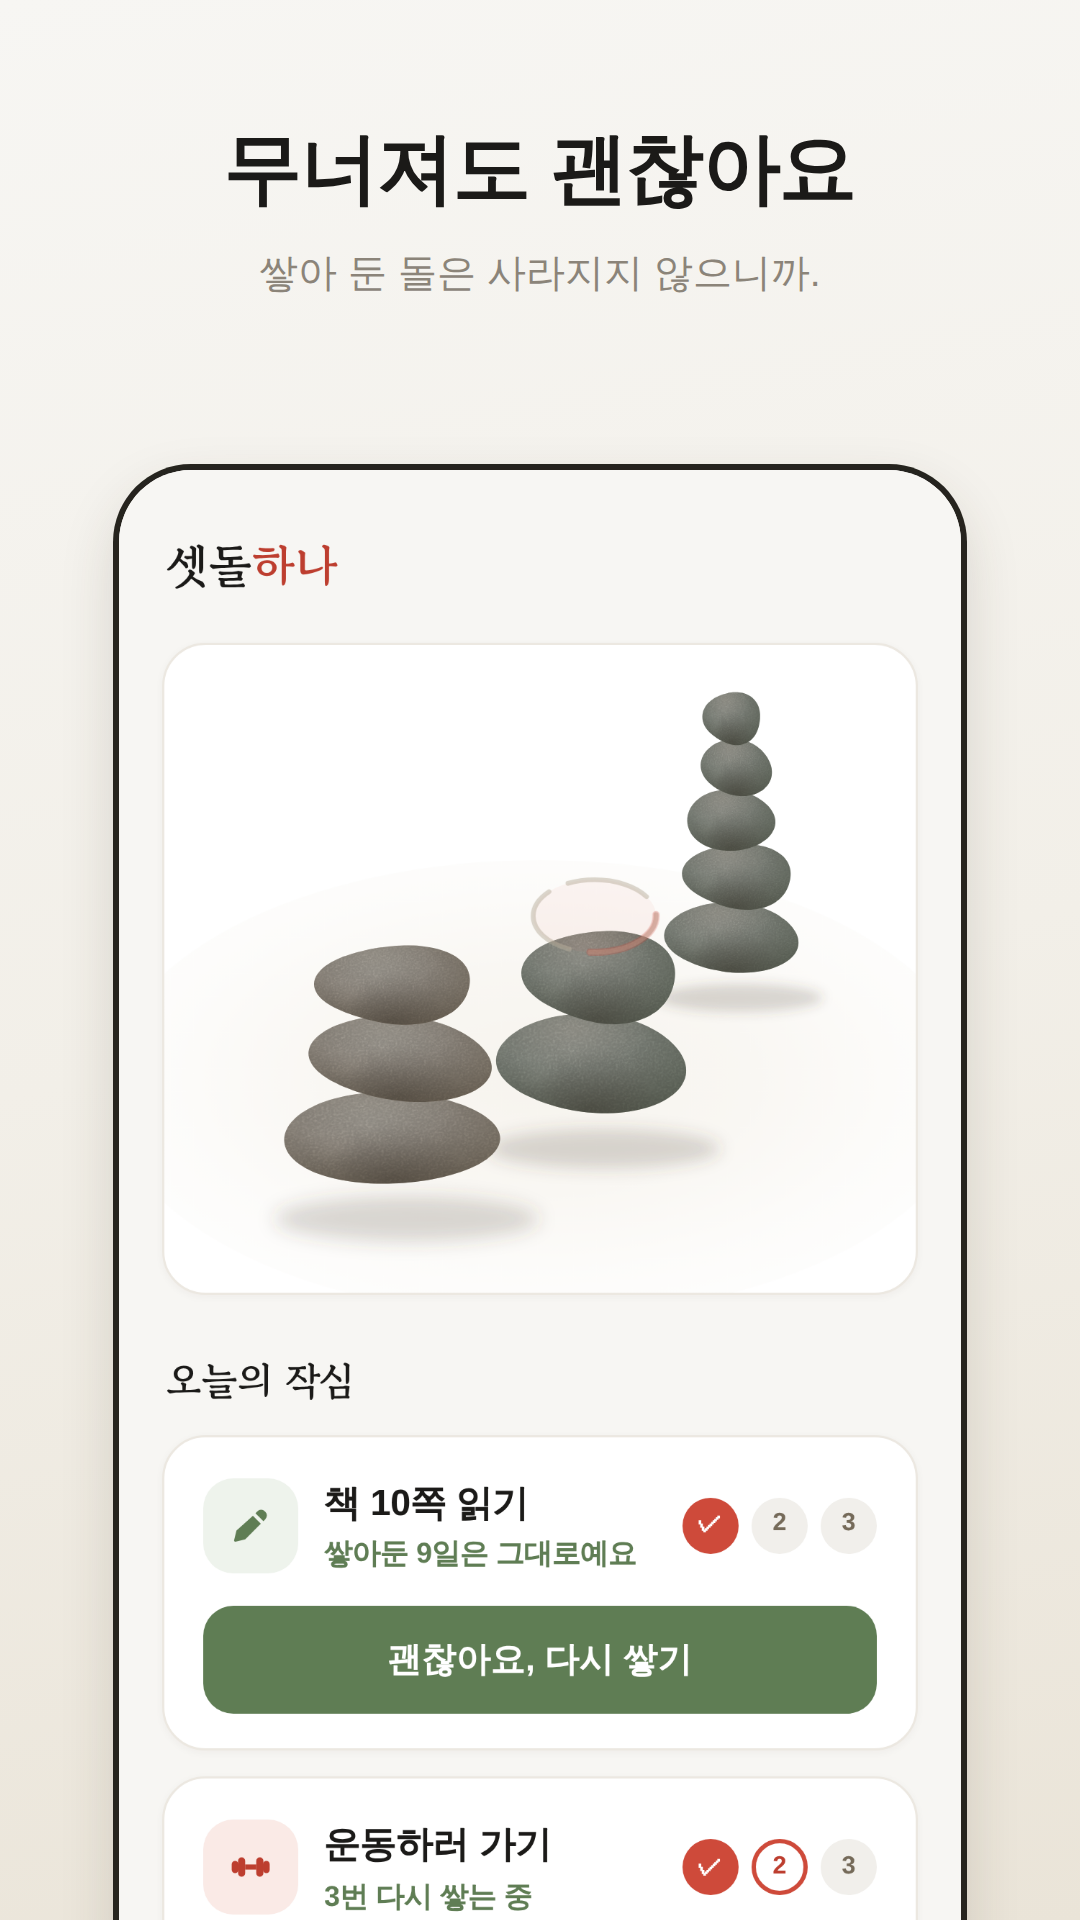
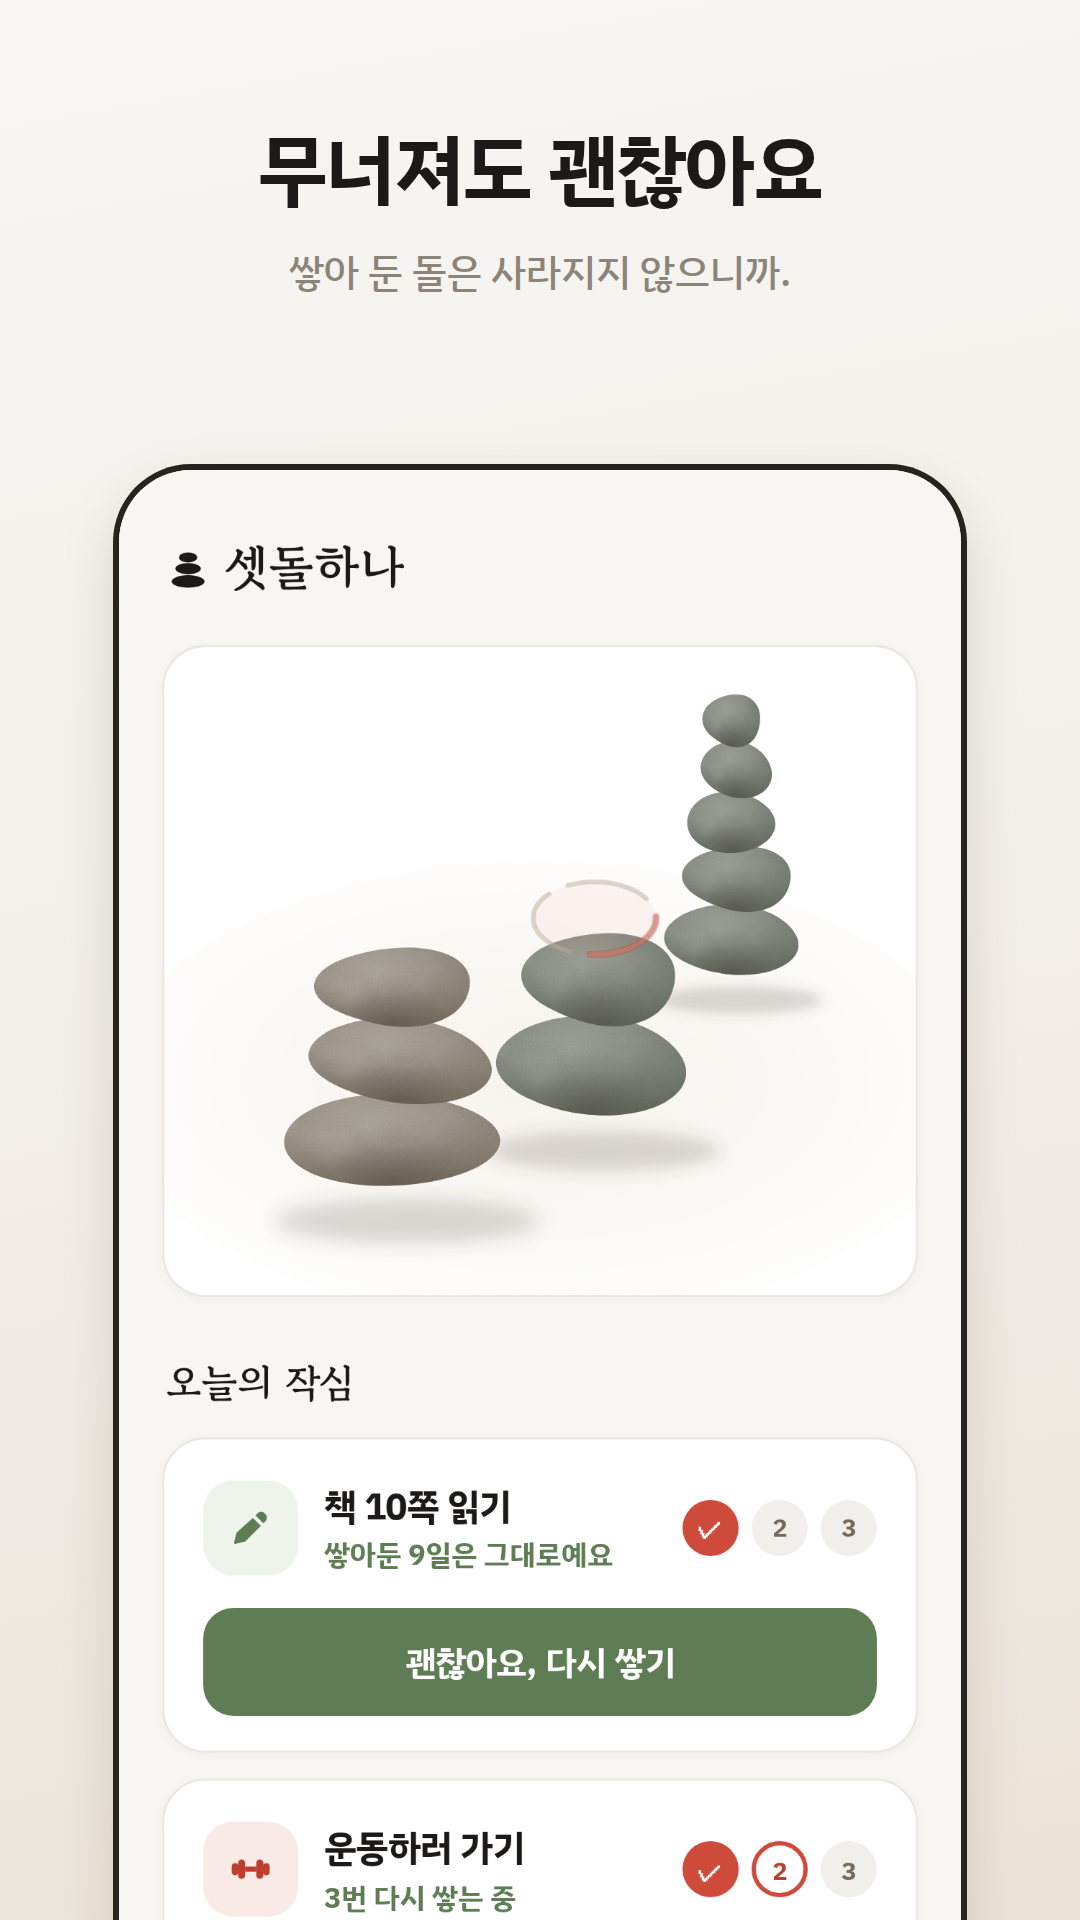
스토어 스크린샷·피처그래픽을 최근 변경에 맞춰 다시 뽑았다
새 워드마크(먹빛 돌탑 마크 + 단색), 매트 돌, 본문 IBM Plex Sans KR이 스토어
이미지에는 아직 반영돼 있지 않았다. 실제 앱을 띄워 찍는 방식이라 워드마크·
돌은 자동으로 따라왔고, 스토어 카피 글꼴도 본문과 같은 IBM Plex Sans KR로
맞췄다. 피처그래픽은 자체 워드마크가 옛 코랄 강조본이라, 앱바와 같은 락업
(돌탑 마크 + 단색)으로 바꿨다.

본문 글꼴은 앱이 구글폰트에서 받으므로 보통 개발 환경에서는 그대로 렌더된다.
네트워크가 막힌 환경에서도 실제 글꼴로 찍을 수 있게, make-store-shots.js에
@fontsource 파일 경로(IBM_PLEX_DIR)로 woff2를 data URI로 심는 길을 더했다 —
없으면 앱의 구글폰트 링크에 그대로 맡긴다.

Claude-Session: https://claude.ai/code/session_01QNcUG4P16zMQ72NDYJBc1J

diff --git a/scripts/make-store-shots.js b/scripts/make-store-shots.js
@@ -15,6 +15,28 @@ const ROOT = path.resolve(__dirname, "..");
 const OUT = path.join(ROOT, "store", "screenshots");
 const PORT = 8944;
 
+/* 본문 글꼴(IBM Plex Sans KR)은 앱이 구글폰트에서 받는다 — 인터넷이 있는
+   보통 개발 환경에서는 그대로 렌더된다. 네트워크가 막힌 환경(오프라인 CI 등)
+   에서 실제 글꼴로 찍고 싶으면, @fontsource/ibm-plex-sans-kr의 files 폴더를
+   IBM_PLEX_DIR로 가리키면 그 woff2를 data URI로 심어 준다. */
+const IBM_DIR = process.env.IBM_PLEX_DIR;
+function buildFontCSS() {
+  if (!IBM_DIR) return "";
+  const LATIN = "U+0000-024F, U+2000-20CF, U+2190-2193, U+2212";
+  const KR = "U+1100-11FF, U+3130-318F, U+A960-A97F, U+AC00-D7A3, U+D7B0-D7FF";
+  let css = "";
+  for (const w of [400, 500, 700]) {
+    for (const [sub, range] of [["latin", LATIN], ["korean", KR]]) {
+      const f = path.join(IBM_DIR, `ibm-plex-sans-kr-${sub}-${w}-normal.woff2`);
+      if (!fs.existsSync(f)) continue;
+      const b64 = fs.readFileSync(f).toString("base64");
+      css += `@font-face{font-family:'IBM Plex Sans KR';font-weight:${w};font-display:swap;unicode-range:${range};src:url(data:font/woff2;base64,${b64}) format('woff2');}`;
+    }
+  }
+  return css;
+}
+const FONT_CSS = buildFontCSS();
+
 const MIME = {
   ".html": "text/html; charset=utf-8",
   ".js": "text/javascript; charset=utf-8",
@@ -164,13 +186,14 @@ function frameHTML({ shot, headline, sub, w, h }) {
   const sSize = Math.round(w * 0.036);
 
   return `<!DOCTYPE html><meta charset="utf-8">
+  <link href="https://fonts.googleapis.com/css2?family=IBM+Plex+Sans+KR:wght@500;700&display=swap" rel="stylesheet">
   <style>
-    @font-face { font-family: 'AppFont'; src: local('Noto Sans KR'), local('Pretendard'); }
+    ${FONT_CSS}
     * { margin:0; padding:0; box-sizing:border-box; }
     body {
       width:${w}px; height:${h}px; overflow:hidden;
       background: linear-gradient(170deg, #f7f6f3 0%, #f2efe8 52%, #eae4d8 100%);
-      font-family: 'Noto Sans KR', Pretendard, -apple-system, sans-serif;
+      font-family: 'IBM Plex Sans KR', 'Noto Sans KR', -apple-system, sans-serif;
       position:relative;
     }
     .copy {
@@ -233,8 +256,9 @@ function frameHTML({ shot, headline, sub, w, h }) {
     if (!scene.skipReload) await page.reload({ waitUntil: "load" });
     // 시트가 열린 장면은 뒤가 너무 어두우면 스토어에서 칙칙해 보인다
     await page.addStyleTag({
-      content: `.modal-backdrop, .cheer-backdrop { background: rgba(27,26,24,0.12) !important; }`,
+      content: `.modal-backdrop, .cheer-backdrop { background: rgba(27,26,24,0.12) !important; }` + FONT_CSS,
     });
+    if (FONT_CSS) await page.evaluate(() => document.fonts && document.fonts.ready).catch(() => {});
     await page.waitForTimeout(600);
     const shot = (await page.screenshot()).toString("base64");
     await ctx.close();

diff --git a/scripts/make-feature-graphic.js b/scripts/make-feature-graphic.js
@@ -82,16 +82,19 @@ function bannerHTML(gardenSvg) {
     .fg {
       width:1024px; height:500px; position:relative; overflow:hidden;
       background: radial-gradient(120% 140% at 18% 20%, #fbfaf7 0%, #f4f2ec 60%, #efece5 100%);
-      font-family: Pretendard, "Noto Sans KR", -apple-system, sans-serif;
+      font-family: "IBM Plex Sans KR", "Noto Sans KR", -apple-system, sans-serif;
       display:flex; align-items:center;
     }
     /* 왼쪽 — 이름과 문구 */
-    .fg-copy { padding-left:80px; width:520px; z-index:2; }
+    .fg-copy { padding-left:80px; width:560px; z-index:2; }
+    /* 워드마크는 앱바와 같은 락업 — 먹빛 돌탑 마크 + 단색 이름(코랄 강조 없음) */
     .fg-brand {
-      font-size:92px; font-weight:800; letter-spacing:-0.02em; line-height:1;
+      display:flex; align-items:center; gap:20px;
+      font-size:88px; font-weight:800; letter-spacing:-0.02em; line-height:1;
       color:#1b1a18; margin:0;
     }
-    .fg-brand em { color:#e85d3d; font-style:normal; }
+    .fg-mark { display:inline-flex; }
+    .fg-mark svg { display:block; }
     .fg-tag {
       font-size:31px; font-weight:600; color:#3c3833; margin:26px 0 0;
       letter-spacing:-0.01em;
@@ -117,7 +120,7 @@ function bannerHTML(gardenSvg) {
     <div class="fg-garden">${gardenSvg}</div>
     <div class="fg-veil"></div>
     <div class="fg-copy">
-      <h1 class="fg-brand">셋돌<em>하나</em></h1>
+      <h1 class="fg-brand"><span class="fg-mark" aria-hidden="true"><svg viewBox="0 0 20 20" width="66" height="66" fill="#1b1a18"><ellipse cx="10" cy="16.6" rx="7.6" ry="2.9"/><ellipse cx="10" cy="10.7" rx="5.9" ry="2.6"/><ellipse cx="10" cy="5.5" rx="4.2" ry="2.3"/></svg></span>셋돌하나</h1>
       <p class="fg-tag">3일을 해내면, 돌 하나.</p>
       <p class="fg-sub">무너져도 쌓은 건 그대로.</p>
     </div>
